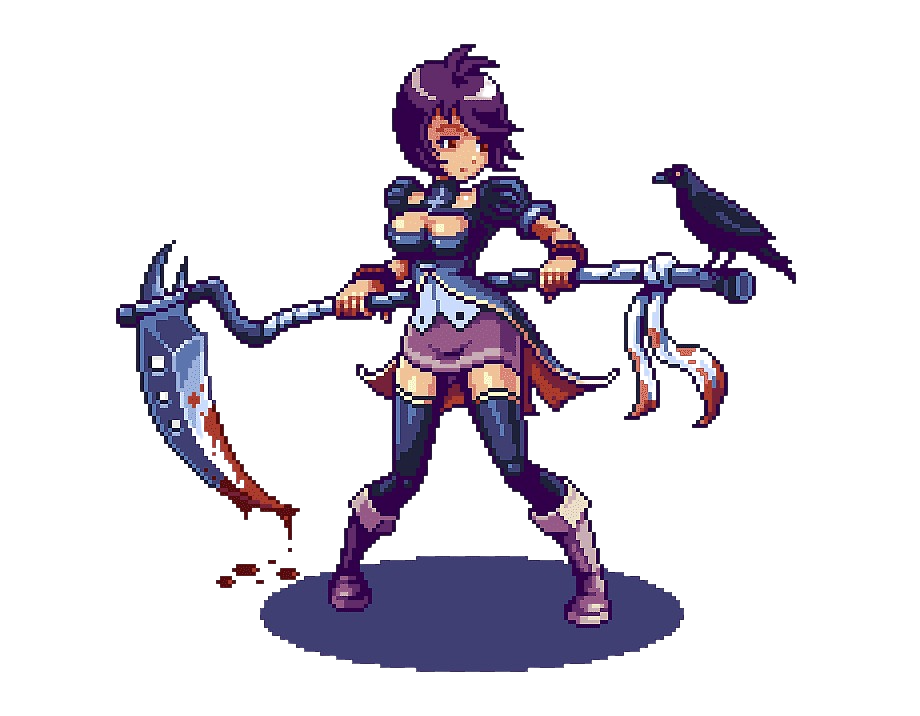
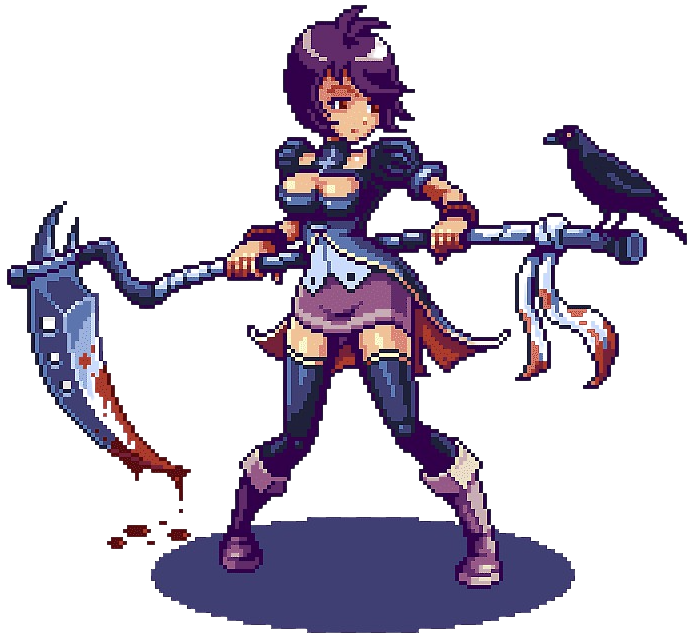
animações vôo de combate

diff --git a/src/components/Personagens/Personagens.js b/src/components/Personagens/Personagens.js
@@ -1,6 +1,6 @@
 import React, { useEffect, useState } from "react";
-import char3 from "../../assets/image/char3.png";
-import enem2 from "../../assets/image/enem2.png";
+import char from "../../assets/image/char3.png";
+import enem from "../../assets/image/enem2.png";
 import { enemyStats, playerStats } from "../../shared/stats";
 import { BarraVida } from "../";
 import styles from "./styles.module.css";
@@ -8,21 +8,46 @@ import styles from "./styles.module.css";
 export const Personagens = ({ dano, cura, curou, acertou, errou }) => {
   const [playerVidaAtual, setPlayerVidaAtual] = useState(playerStats.vidaTotal)
   const [enemyVidaAtual, setEnemyVidaAtual] = useState(parseInt(enemyStats.vidaTotal))
-  const [isActive, setIsActive] = useState(false)
+  const hit = [
+    { transform: 'translate(0px, 0px) rotate(0deg)' },
+    { transform: 'translate(5px, 6px) rotate(1deg)' },
+    { transform: 'translate(-5px, -8px) rotate(-2deg)' },
+    { backgroundColor: '#fff'},
+    { transform: 'translate(-8px, 5px) rotate(2deg)' },
+    { transform: 'translate(8px, 8px) rotate(1deg)' },
+    { transform: 'translate(5px, -5px) rotate(2deg)' },
+    { transform: 'translate(-5px, 8px) rotate(-2deg)' },
+    { transform: 'translate(-6px, 5px) rotate(1deg)' },
+    { transform: 'translate(8px, 5px) rotate(-2deg)' },
+    { transform: 'translate(5px, -5px) rotate(2deg)' },
+    { transform: 'translate(0px, 0px) rotate(0deg)' },
+  ]
 
   useEffect(() => {
     if (acertou) {
       setEnemyVidaAtual(parseInt(enemyVidaAtual) - parseInt(dano))
+      document.getElementById('enem').animate(hit, { duration: 750 })
+      document.getElementById('player').animate([
+        { transform: 'translate(0px)'},
+        { transform: 'translate(70px)'},
+        { transform: 'translate(0px)'},
+      ], { duration: 350})
     }
     if (errou) {
       setPlayerVidaAtual(parseInt(playerVidaAtual) - parseInt(dano))
+      document.getElementById('player').animate(hit, { duration: 750 })
+      document.getElementById('enem').animate([
+        { transform: 'translate(0px)'},
+        { transform: 'translate(-70px)'},
+        { transform: 'translate(0px)'},
+      ], { duration: 350})
     }
     if (curou) {
       setPlayerVidaAtual(parseInt(playerVidaAtual) + parseInt(cura))
     }
     if (playerVidaAtual > 50) setPlayerVidaAtual(parseInt(50))
   })
-
+  
   return (
     <div className={styles.divPersonagens}>
 
@@ -31,15 +56,14 @@ export const Personagens = ({ dano, cura, curou, acertou, errou }) => {
           vidaAtual={playerVidaAtual}
           setVidaAtual={setPlayerVidaAtual}
           vidaTotal={playerStats.vidaTotal}
-          // dano={dano}
           cura={cura}
-          // acertou={acertou}
           errou={errou}
         />
         <img
-          src={char3} 
-          width='350' 
-          height='300'
+          id="player"
+          src={char} 
+          width='300px' 
+          height='300px'
         />
       </div>
 
@@ -53,7 +77,8 @@ export const Personagens = ({ dano, cura, curou, acertou, errou }) => {
           acertou={acertou}
         />
         <img
-          src={enem2} 
+          id="enem"
+          src={enem} 
           width='220' 
           height='250'
         />

diff --git a/src/components/Personagens/styles.module.css b/src/components/Personagens/styles.module.css
@@ -1,32 +1,24 @@
-@keyframes shake {
-    0% { transform: translate(1px, 1px) rotate(0deg); }
-    10% { transform: translate(-1px, -2px) rotate(-1deg); }
-    20% { transform: translate(-3px, 0px) rotate(1deg); }
-    30% { transform: translate(3px, 2px) rotate(0deg); }
-    40% { transform: translate(1px, -1px) rotate(1deg); }
-    50% { transform: translate(-1px, 2px) rotate(-1deg); }
-    60% { transform: translate(-3px, 1px) rotate(0deg); }
-    70% { transform: translate(3px, 1px) rotate(-1deg); }
-    80% { transform: translate(-1px, -1px) rotate(1deg); }
-    90% { transform: translate(1px, 2px) rotate(0deg); }
-    100% { transform: translate(1px, -2px) rotate(-1deg); }
+@keyframes flying {
+    0% { transform: translate(0, 0px); }
+    25% { transform: translate(-3px, 10px); }
+    50% { transform: translate(0px, 0px); }
+    75% { transform: translate(-3px, -10px); }
+    100% { transform: translate(0, 0px); }
 }
 
 .divPersonagens {
     height: 70vh;
 }
 .player {
-    /* background-color: rgba(102, 102, 102, 0.052); */
     display: flex;
     flex-direction: column;
     align-items: center;
     width: fit-content;
     margin-top: 3rem;
-    margin-left: 6rem;
+    margin-left: 8rem;
     float: left;
 }
 .enem {
-    /* background-color: rgba(102, 102, 102, 0.052); */
     display: flex;
     flex-direction: column;
     align-items: center;
@@ -34,7 +26,5 @@
     margin-top: 1rem;
     margin-right: 12rem;
     float: right;
-}
-.animation {
-    animation: shake 0.5s;
+    animation: flying 3s linear  infinite;
 }
